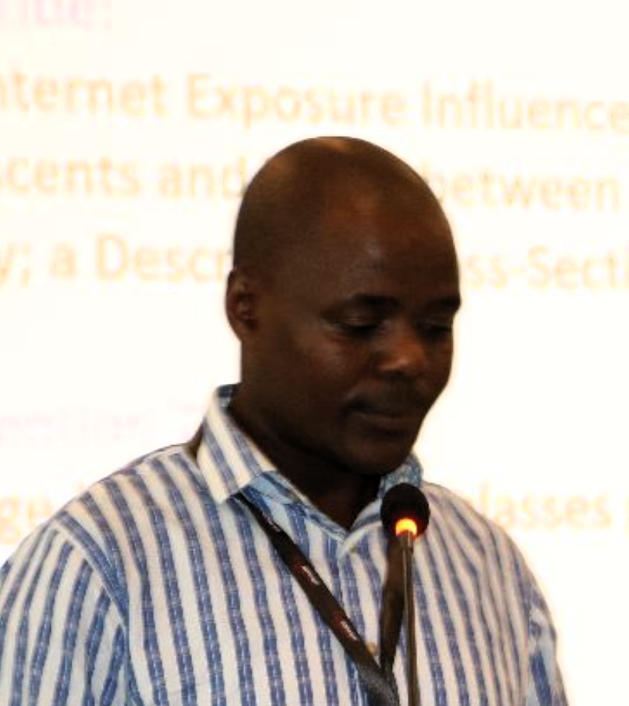
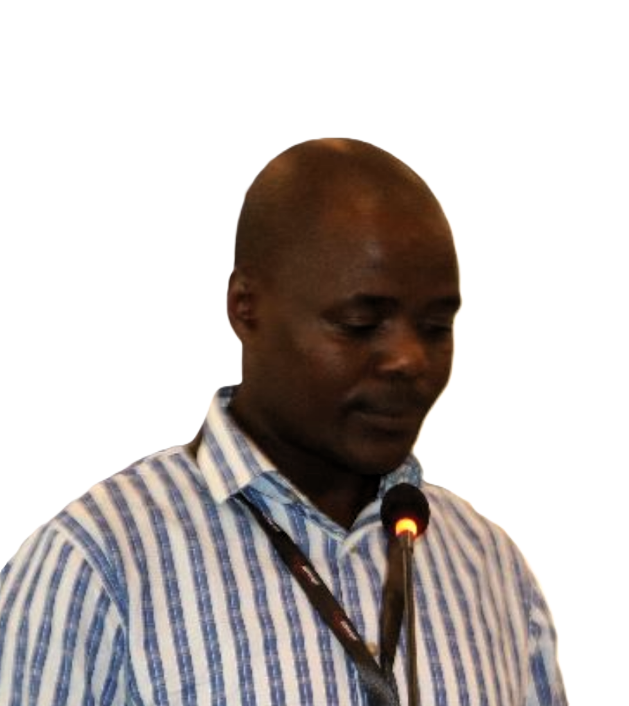
Update secretariat photos with background-removed versions and add Risper Amolo

diff --git a/src/features/about/constants/aboutData.ts b/src/features/about/constants/aboutData.ts
@@ -98,7 +98,7 @@ export const SECRETARIAT_TEAM: SecretariatDepartment[] = [
             {
                 name: 'Elly Bwana',
                 roles: ['Executive Director & Head of Programs'],
-                image: 'https://picsum.photos/400/400?image=1011'
+                image: '/images/secretariat/elly_bwana.png'
             }
         ]
     },
@@ -108,17 +108,17 @@ export const SECRETARIAT_TEAM: SecretariatDepartment[] = [
             {
                 name: 'Nicholas Mbira',
                 roles: ['Program Officer / Field Officer'],
-                image: 'https://picsum.photos/400/400?image=1005'
+                image: '/images/secretariat/nicholas_mbira.png'
             },
             {
                 name: 'Faith Tom',
                 roles: ['Monitoring & Evaluation (M&E) Officer'],
-                image: 'https://picsum.photos/400/400?image=1006'
+                image: '/images/secretariat/faith_tom.png'
             },
             {
                 name: 'Risper Amolo',
                 roles: ['Social Worker / Counselor'],
-                image: 'https://picsum.photos/400/400?image=1008'
+                image: '/images/secretariat/risper_amolo.png'
             }
         ]
     },
@@ -128,7 +128,7 @@ export const SECRETARIAT_TEAM: SecretariatDepartment[] = [
             {
                 name: 'Dan Otieno',
                 roles: ['Finance & Administration Officer', 'Procurement Officer'],
-                image: 'https://picsum.photos/400/400?image=1012'
+                image: '/images/secretariat/dan_otieno.png'
             }
         ]
     },
@@ -138,7 +138,7 @@ export const SECRETARIAT_TEAM: SecretariatDepartment[] = [
             {
                 name: 'Lameck Odhiambo',
                 roles: ['Communications & Public Relations Officer', 'ICT & Data Management Officer'],
-                image: 'https://picsum.photos/400/400?image=1013'
+                image: '/images/secretariat/lameck_odhiambo.png'
             }
         ]
     }
